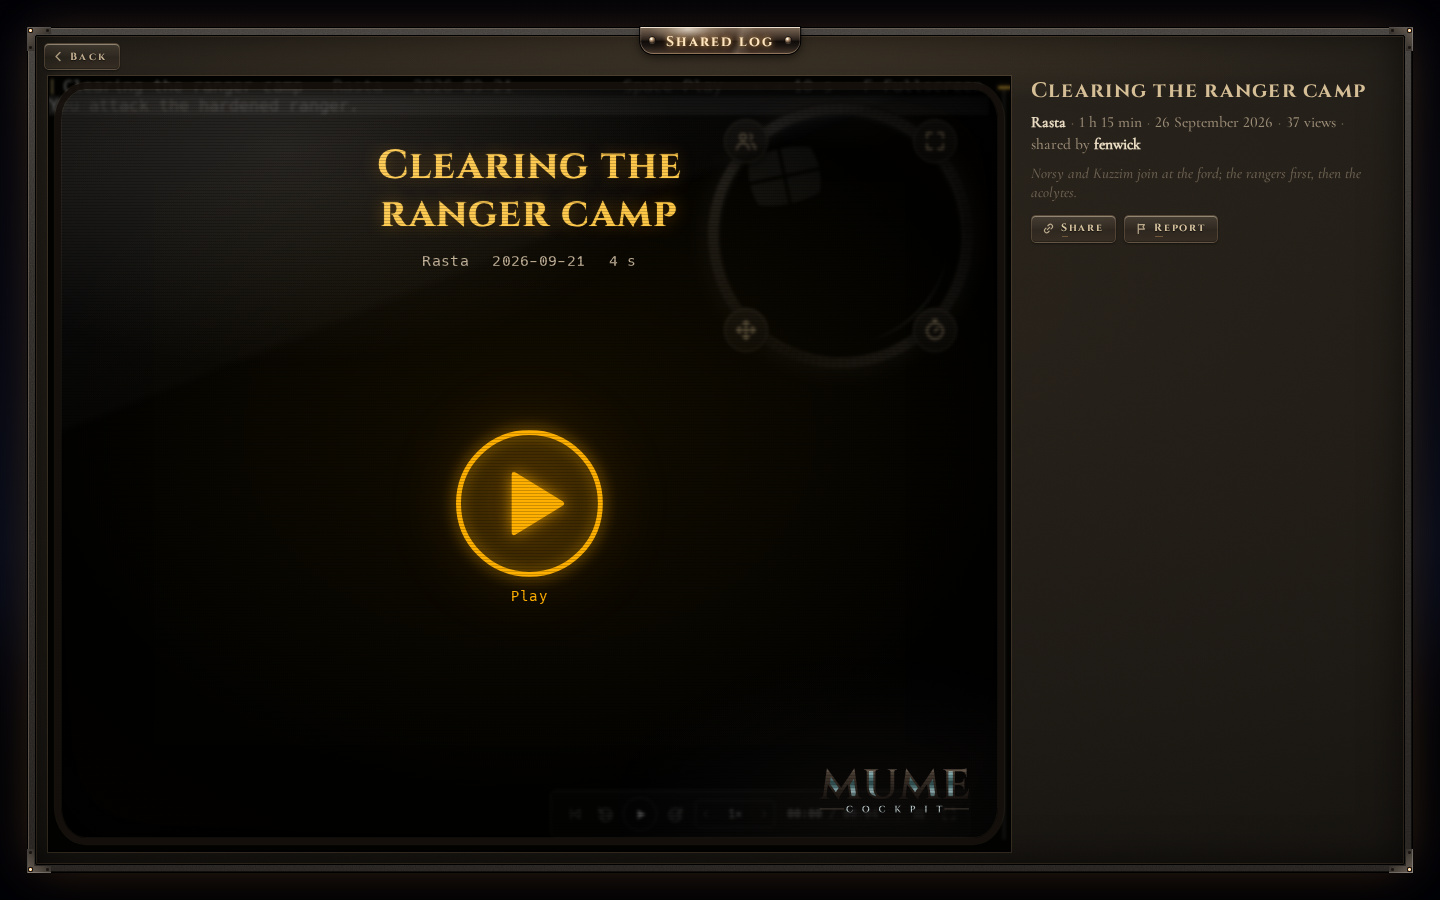
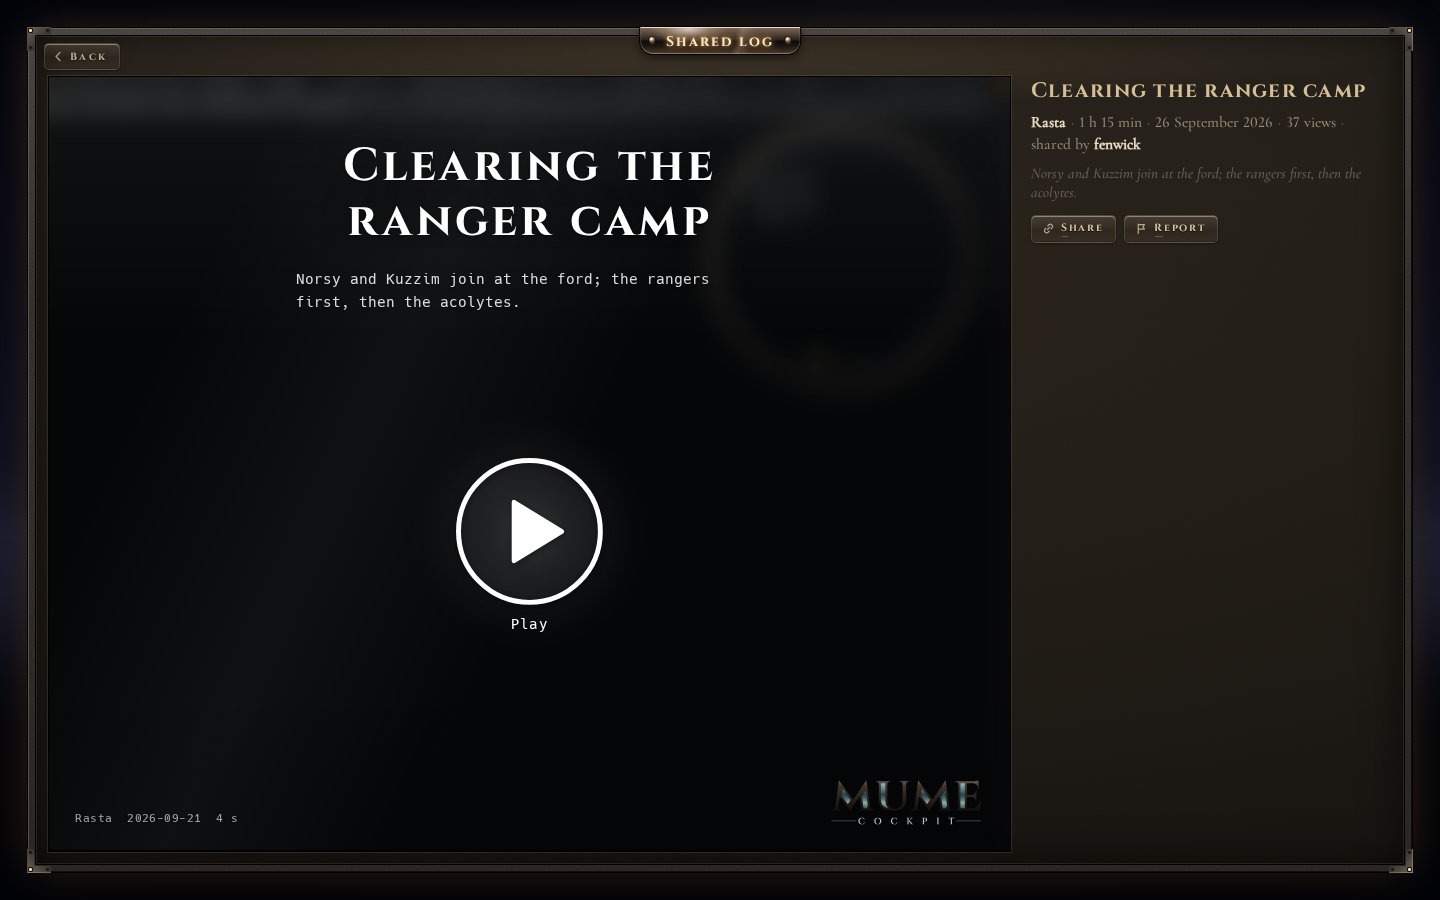
docs: ADR 0162 round 1 addendum, the owner's poster pick; final screenshots
Claude-Session: https://claude.ai/code/session_01Fx3riQC4HMXiiAq71LcEas

diff --git a/docs/stages/73-shared-replay-round-2.md b/docs/stages/73-shared-replay-round-2.md
@@ -176,30 +176,21 @@ Round 1 (2026-11-18, on staging):
 1. [ ] Desktop: the wheel over the lens also scrolls the log.
 2. [ ] Phone/tablet: no header row (character and date) over the player
    in a shared run.
-3. [ ] The poster: the log's title at the top (not the character's name),
+3. [x] The poster: the log's title at the top (not the character's name),
    its description under it (a centred block, left-aligned lines), the
    character and the date smaller somewhere fitting. All text and the
    play icon white.
-4. [ ] The poster covers exactly the player's area, no visible border,
+4. [x] The poster covers exactly the player's area, no visible border,
    melting into the player. Three looks to compare: the TV, a plain glass,
    and a third of our choosing. **Mockups first; the owner picks and
    approves before the poster is changed.**
 
-   Points 3–4: **mockups ready** (branch `stage-73-poster-r1`). The words
-   of point 3 and three looks, each edge to edge with no rim: `tv` (the
-   tube face reworked), `glass` (plain frosted glass), `cinema` (a film
-   title card: dark gradients from top and foot, a soft vignette, a wider
-   title). Dev only: `?poster=tv|glass|cinema` on the watch page; without
-   it the poster is part C's, unchanged. The publication's title and
-   description reach the frame in `wc-play`'s `meta` (plain text, capped:
-   `frameMeta`, src/replay/frame.ts); the look in `prefs.poster`. Shots
-   (`WC_POSTER_MOCKUPS=1 npx playwright test poster-mockups
-   --project=chromium`), desktop 1440×900, phone portrait (Pixel 7, the
-   frame alone), tablet landscape 1180×820:
-   - `img/73-r1-poster-tv-desktop.png`, `-tv-phone.png`, `-tv-tablet.png`
-   - `img/73-r1-poster-glass-desktop.png`, `-glass-phone.png`,
-     `-glass-tablet.png`
-   - `img/73-r1-poster-cinema-desktop.png`, `-cinema-phone.png`,
-     `-cinema-tablet.png`
-   - side by side: `img/73-r1-poster-overview-desktop.png`,
-     `-overview-phone.png`, `-overview-tablet.png`
+   Points 3–4 done (branch `stage-73-poster-r1`, ADR 0162 addendum
+   "round 1"): three looks were mocked up (TV, glass, cinema); the owner
+   picked the plain glass with the cinema look's larger, wider title and
+   its layout. It is the one poster, in the frame and the exported file.
+   The publication's title and description reach the frame in `wc-play`'s
+   `meta` (plain text, capped: `frameMeta`). The player's control box is
+   hidden while the poster is up and shows when the run starts. Shots:
+   `img/73-c-desktop.png`, `img/73-c-phone-portrait.png`,
+   `img/73-c-phone-landscape.png`, `img/73-c-tablet-landscape.png`.

diff --git a/docs/decisions/0162-the-shared-run-poster.md b/docs/decisions/0162-the-shared-run-poster.md
@@ -96,3 +96,41 @@ holds the run paused at the start.
   outside it, and with the events stopped, nothing leaks.
 - **A canvas or WebGL CRT effect (barrel distortion).** Not cheap, not
   needed for a still screen; CSS gradients give the look.
+
+## Addendum 2026-11-18: round 1, the owner's pick
+
+The owner's round 1 on staging (stage 73, points 3 and 4) asked for the
+publication's words and a poster that melts into the player; three looks
+were mocked up (a TV face edge to edge, plain frosted glass, a film title
+card). The owner picked the glass with the title card's type. It is the
+poster's one look, in the frame and in the exported file; the mockups and
+their dev switch are gone.
+
+- **Area.** The layer covers exactly the frame's (or the file's) document:
+  no padding, no rounded face, no rim, no vignette at the edges. Frosted
+  glass: a 12 px backdrop blur with slight dimming and a faint cool tint,
+  a lighter top and a darker foot, one broad diagonal sheen. No scanlines,
+  no glare.
+- **Words, all white.** The title at the top in Cinzel Bold, larger and
+  more widely spaced than part C's (`letter-spacing: 0.07em`; smaller for
+  long titles, three lines at most). Under it the description: a block
+  centred on the layer, its lines left-aligned, in the mono face, at most
+  52 ch wide and five lines (two when the window is short). At the foot,
+  small: the character, the date and the played length at the left, the
+  wordmark at the right. The play ring, the triangle and "Play" are white
+  with a soft white glow.
+- **The title and the description.** On the watch page they are the
+  publication's (the run's meta): `openFrame` posts them in `wc-play`'s
+  `meta: {title, description}` (protocol 1; an older frame ignores the
+  field). The frame takes them through `frameMeta` (src/replay/frame.ts):
+  strings only, control and bidi characters dropped, the title on one
+  line, the description keeping its line breaks (at most one empty line
+  in a row), capped at 400 and 2000 characters (the pub API's limits),
+  and the poster shows them with `textContent` only. Without a meta title
+  the payload's title is used. The exported file has its own export title
+  and no description.
+- **The control box.** While the poster is up the player's control box is
+  hidden (`visibility: hidden`, not even blurred under the glass): the
+  poster sets `data-poster-up` on `<html>` and removes it when the run
+  starts or the poster is disposed, and the box shows as usual. The lens
+  and the rest of the player stay under the glass.
